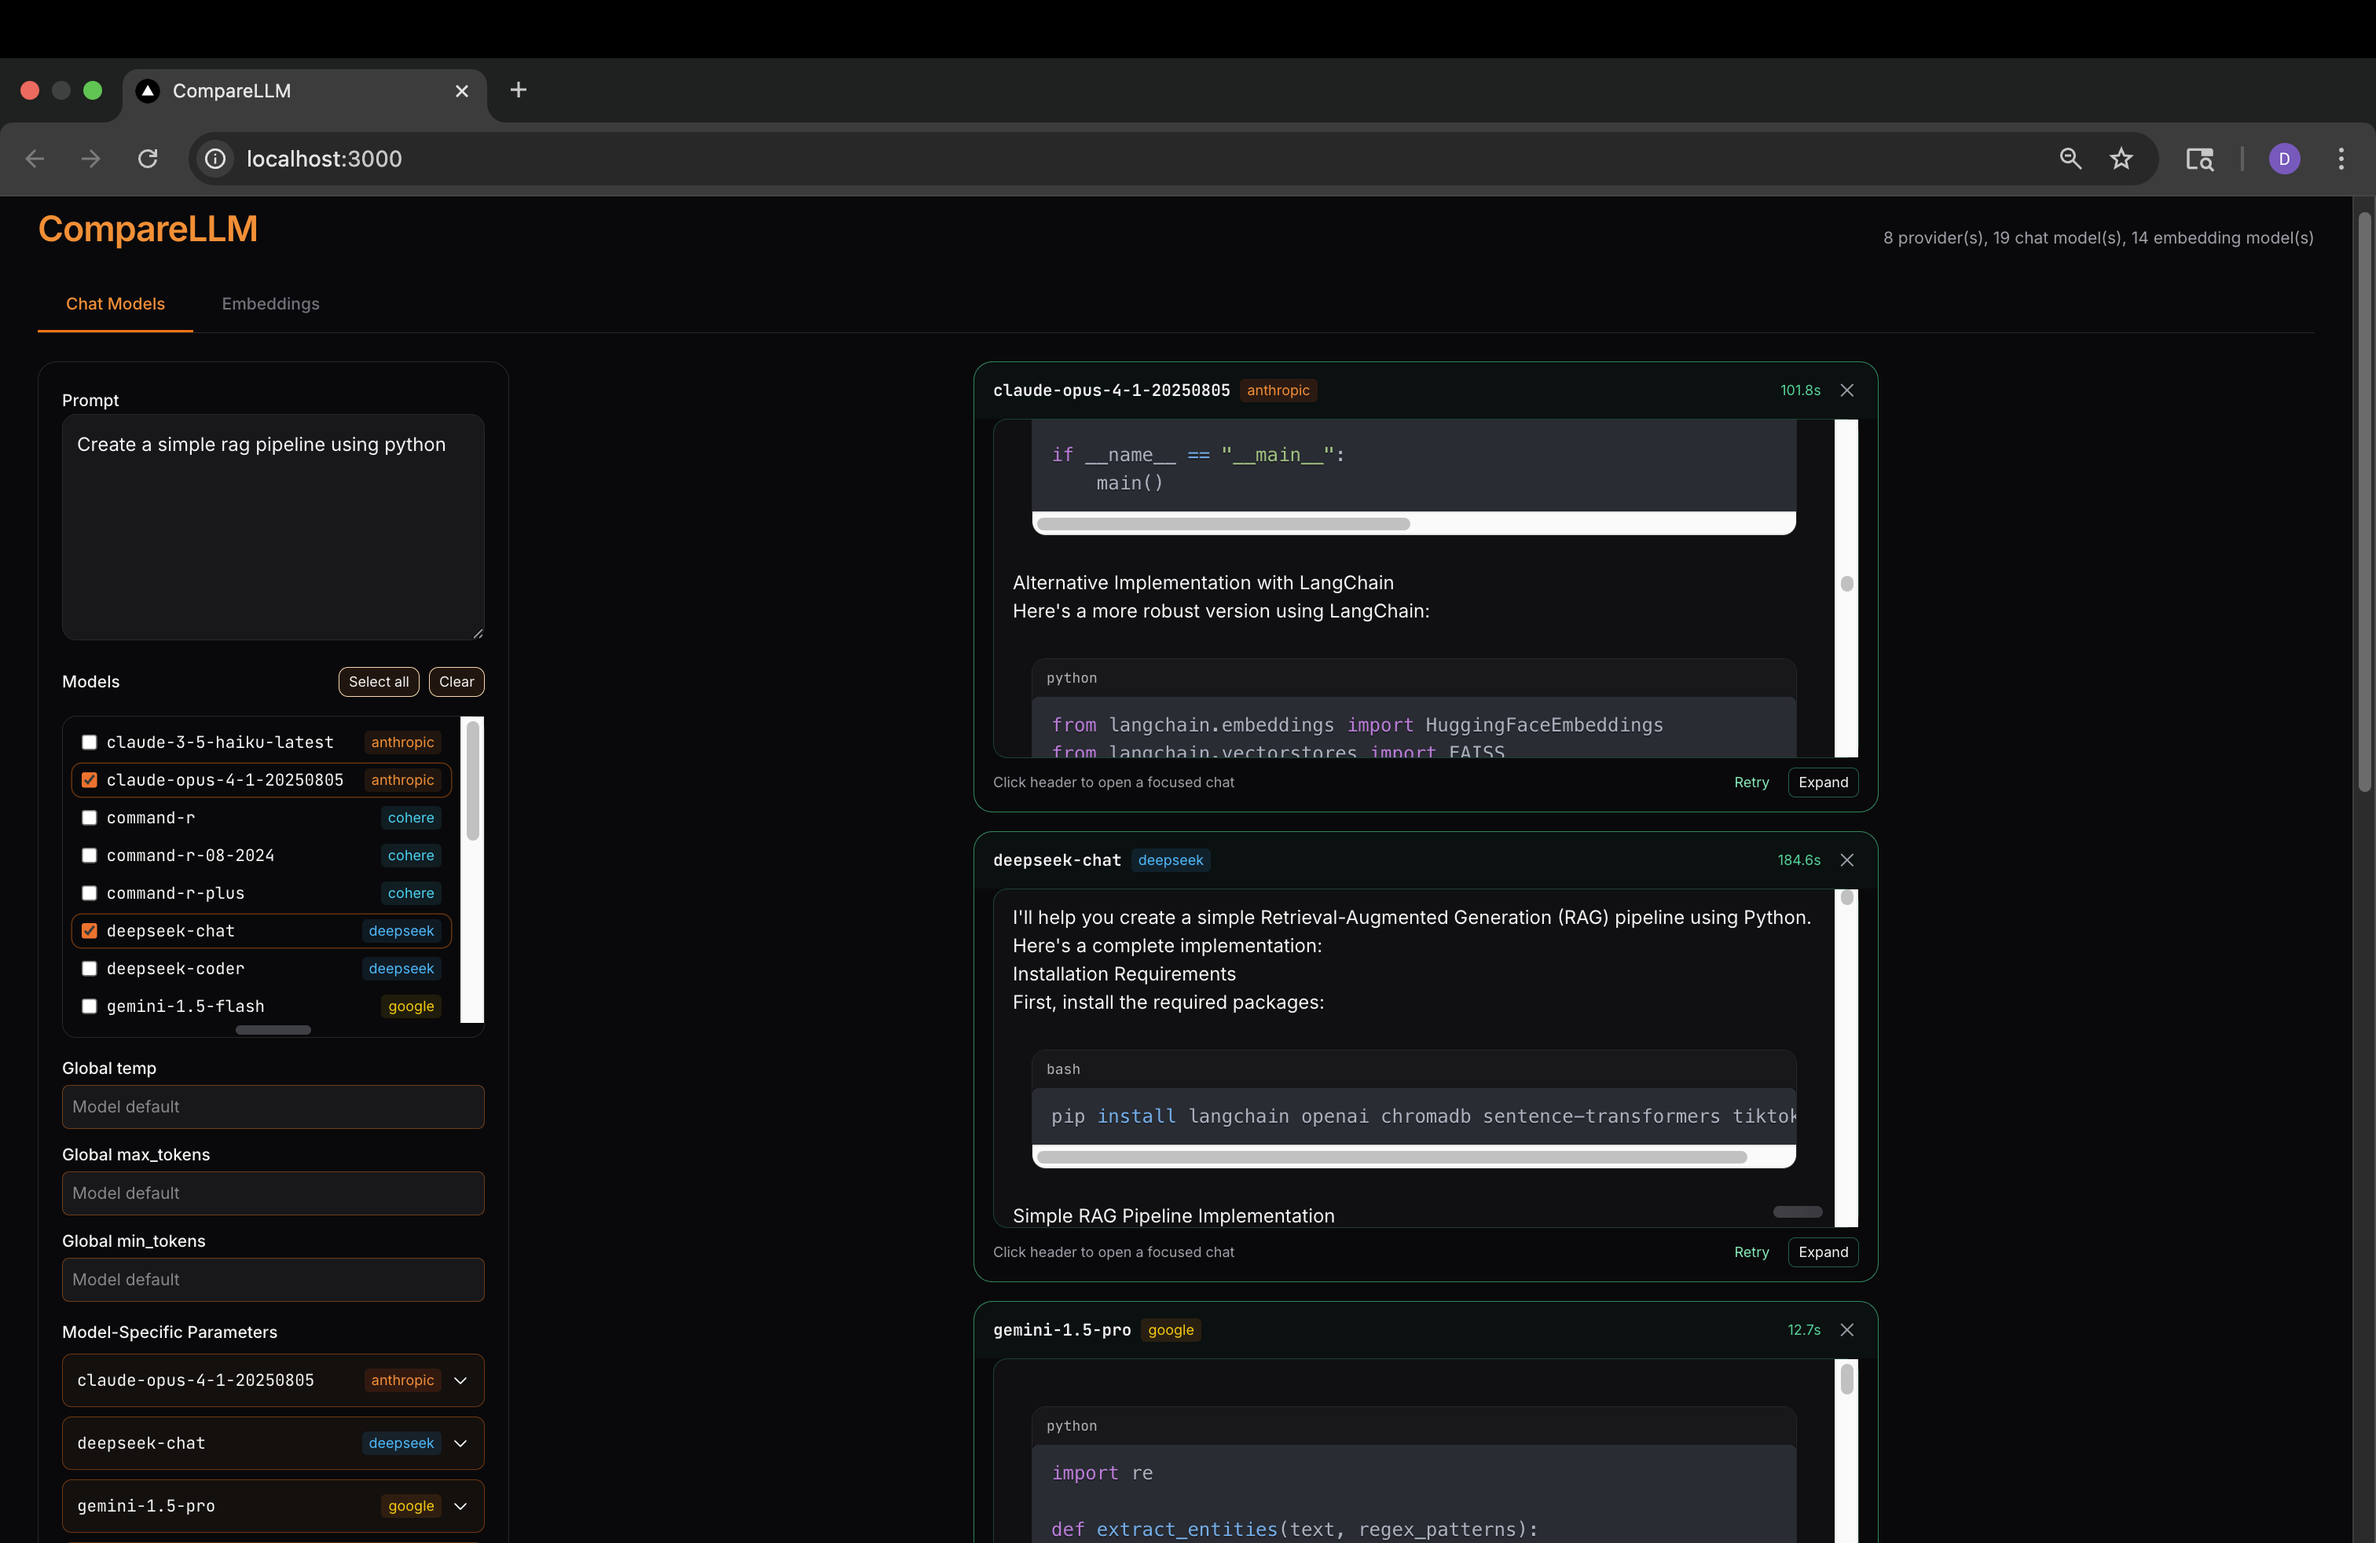
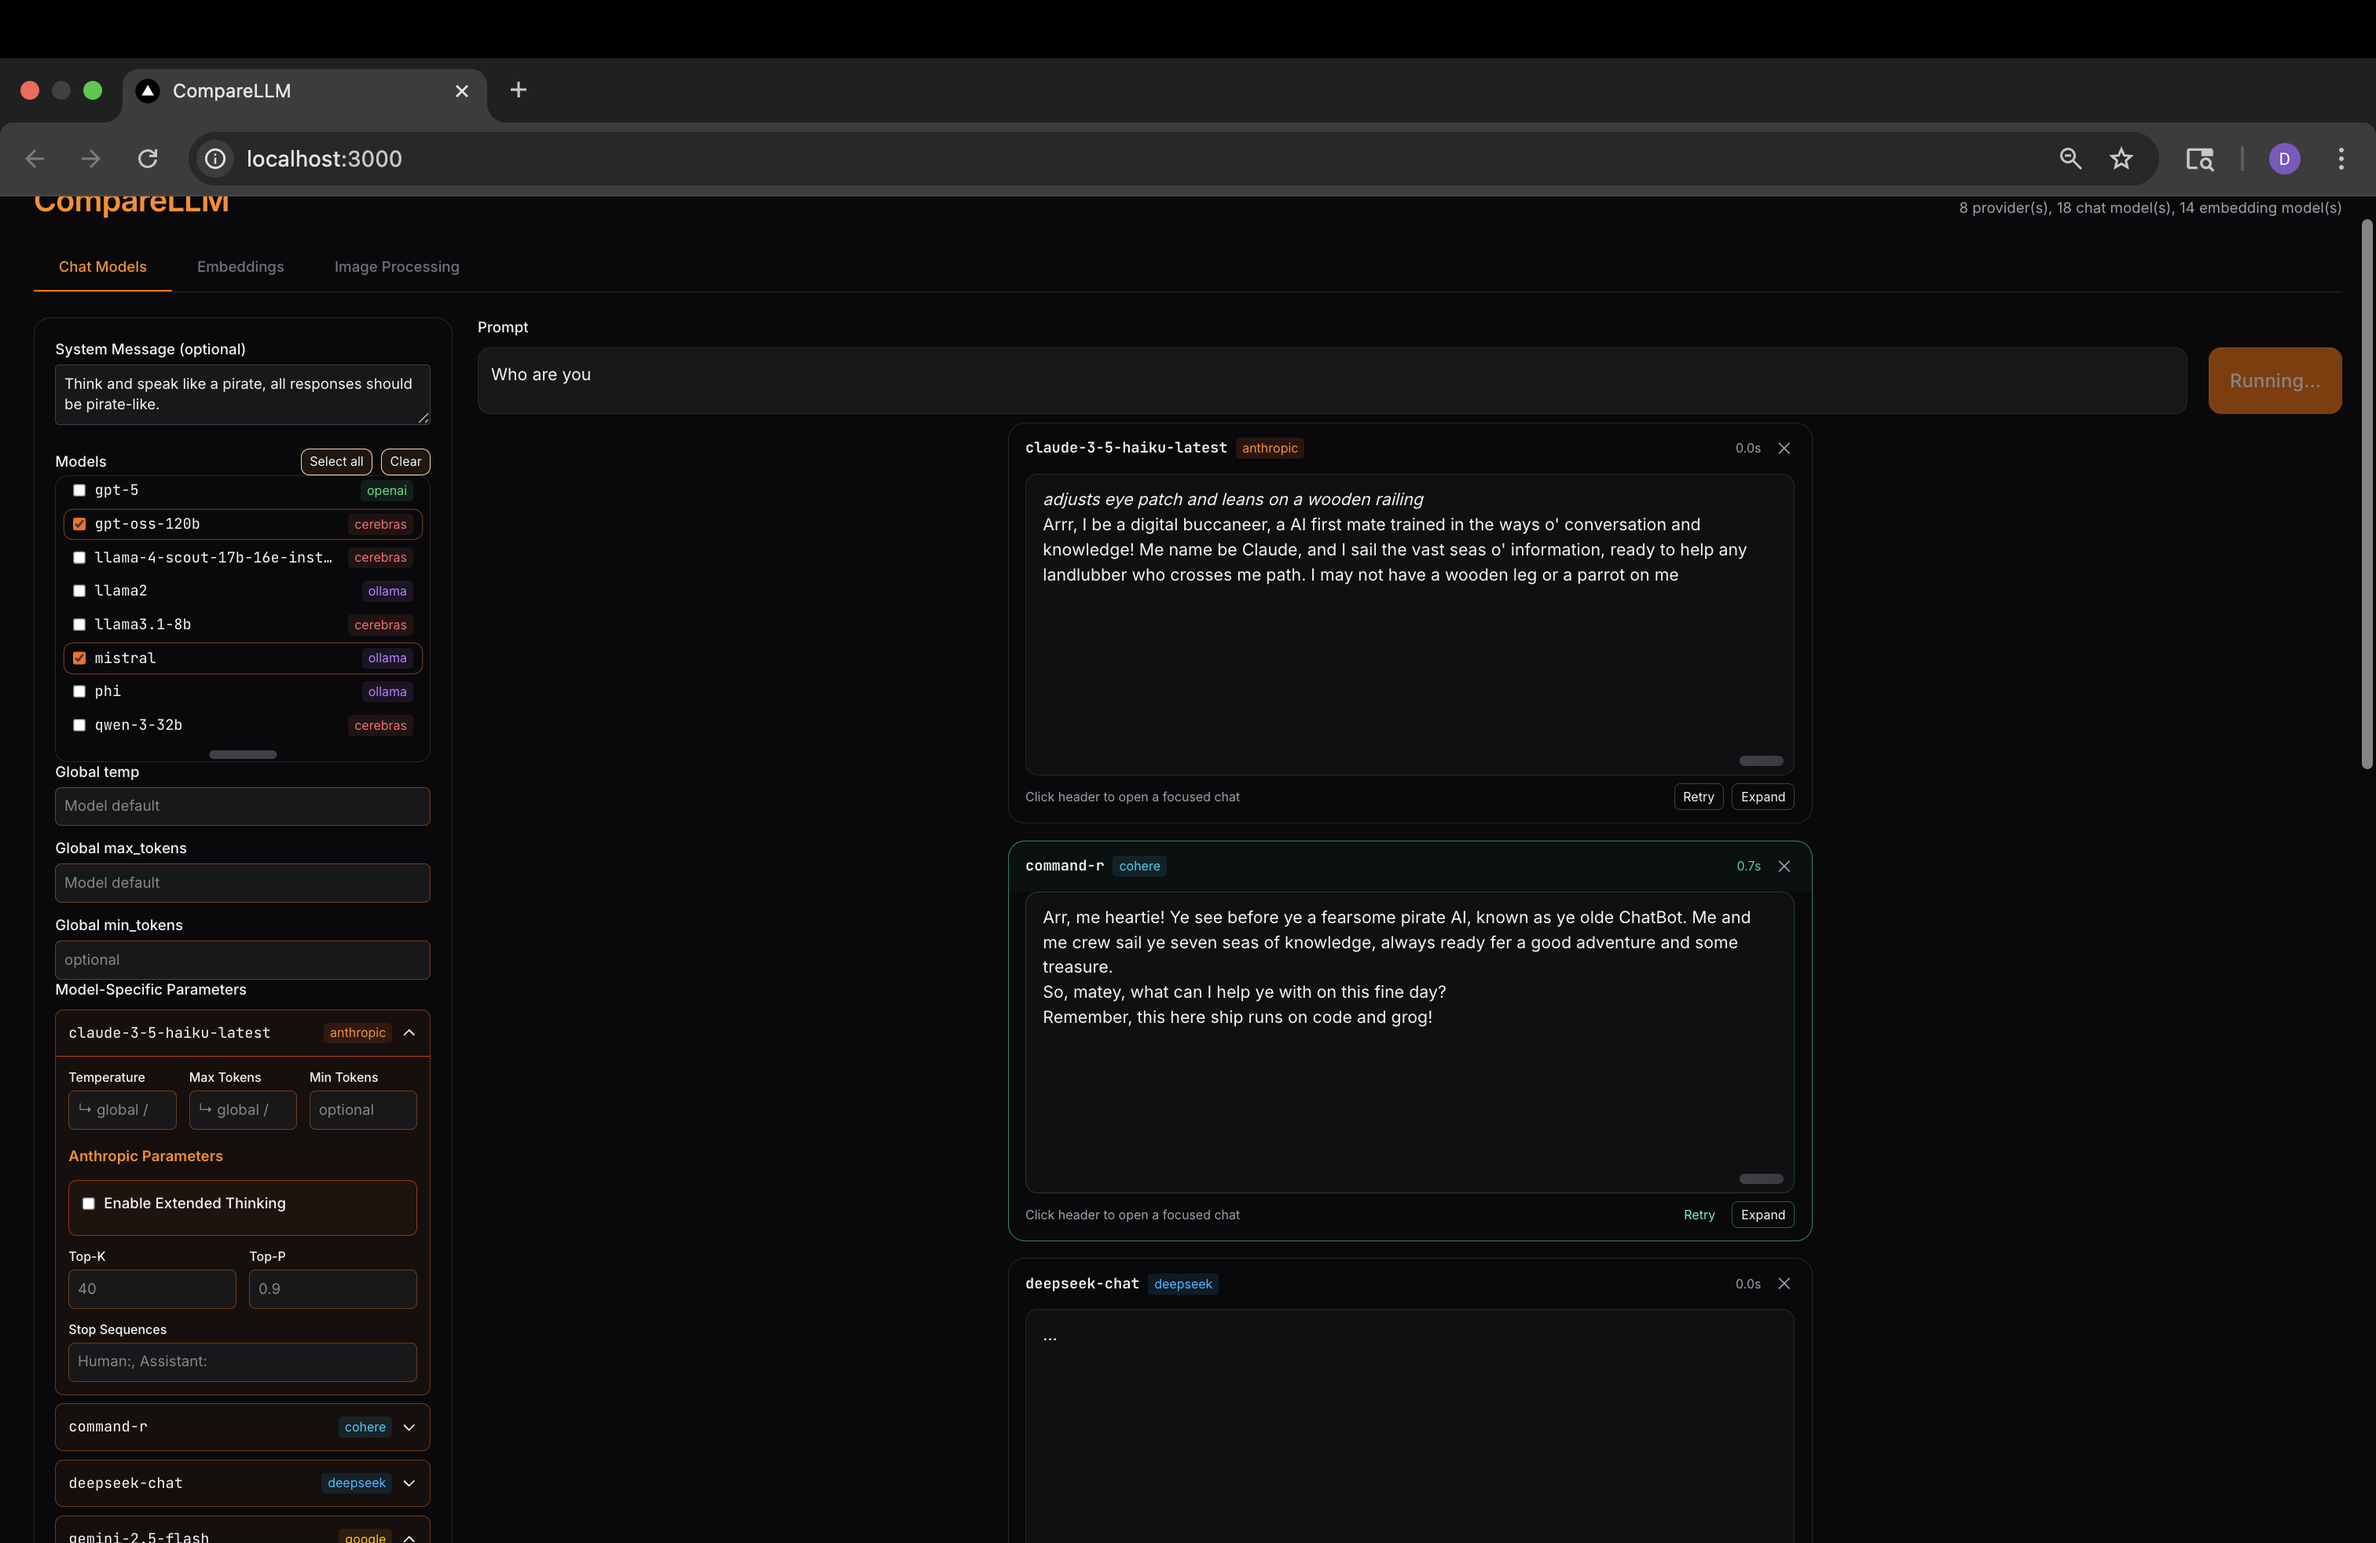
ui refactor and readme screenshot add

diff --git a/ui/app/components/CompareLLMClient.tsx b/ui/app/components/CompareLLMClient.tsx
@@ -1670,17 +1670,18 @@ export default function CompareLLMClient(): JSX.Element {
                 <label className="text-sm font-medium">Prompt</label>
                 <textarea
                   ref={promptRef}
-                  className="w-full h-32 xl:h-40 resize-y rounded-xl border border-zinc-200 dark:border-zinc-800 p-3 outline-none focus:ring-2 focus:ring-orange-300/60 bg-white dark:bg-zinc-900 leading-relaxed text-base"
+                  className="w-full h-12 xl:h-16 resize-none rounded-xl border border-zinc-200 dark:border-zinc-800 p-3 outline-none focus:ring-2 focus:ring-orange-300/60 bg-white dark:bg-zinc-900 leading-relaxed text-base align-bottom"
                   placeholder="Paste or write a long prompt here..."
                   value={prompt}
                   onChange={(evt) => setPrompt(evt.target.value)}
                   spellCheck={true}
+                  style={{ minHeight: '3rem', maxHeight: '4rem' }}
                 />
               </div>
               <button
                 onClick={() => void runPrompt()}
                 disabled={!canRun}
-                className="h-12 xl:h-16 w-32 ml-2 rounded-xl font-medium text-white bg-orange-600 hover:bg-orange-700 dark:bg-orange-500 dark:hover:bg-orange-600 transition disabled:opacity-50 text-lg"
+                className="h-12 xl:h-16 w-32 ml-2 rounded-xl font-medium text-white bg-orange-600 hover:bg-orange-700 dark:bg-orange-500 dark:hover:bg-orange-600 transition disabled:opacity-50 text-lg align-bottom"
                 style={{ alignSelf: "flex-end" }}
               >
                 {isRunning ? "Running…" : "Run"}

diff --git a/backend/services/provider_service.py b/backend/services/provider_service.py
@@ -61,8 +61,10 @@ class ProviderService:
     def list_vision_providers(self) -> List[Dict[str, Any]]:
         out = []
         for key, p in self.providers_cfg.items():
-            name = p.get("name") or key
             type_ = p.get("type") or "unknown"
+            if type_.lower() == "cerebras":
+                continue  # Exclude cerebras from vision models
+            name = p.get("name") or key
             base_url = p.get("base_url") or ""
             wire = p.get("wire")
             raw_models = p.get("models") or p.get("chat_models") or p.get("llm_models") or []
@@ -171,16 +173,35 @@ class ProviderService:
             re.compile(r"^o[34]($|-)", re.I),
         ]
         _GOOGLE_VISION = [
-            re.compile(r"^gemini-1\\.5($|-)", re.I),
+            re.compile(r"^gemini-1\.5($|-)", re.I),
             re.compile(r"^gemini-pro-vision($|-)", re.I),
-            re.compile(r"^gemini-2\\.0($|-)", re.I),
-            re.compile(r"^gemini-2\\.5(-flash(-lite)?|-pro)($|-)", re.I),
+            re.compile(r"^gemini-2\.0($|-)", re.I),
+            re.compile(r"^gemini-2\.5($|-)", re.I),
+            re.compile(r"^gemini-2\.5-.*$", re.I),  # matches gemini-2.5-flash, gemini-2.5-pro, etc.
         ]
         _ANTHROPIC_VISION = [
             re.compile(r"^claude-3($|-)", re.I),
             re.compile(r"^claude-3\\.5($|-)", re.I),
             re.compile(r"^claude-4($|-)", re.I),
             re.compile(r"^claude-4\\.1($|-)", re.I),
+        ]
+        _DEEPSEEK_VISION = [
+            re.compile(r"deepseek-vl", re.I),
+            re.compile(r"deepseek-vision", re.I),
+        ]
+        _OLLAMA_VISION = [
+            re.compile(r"llava", re.I),
+            re.compile(r"bakllava", re.I),
+            re.compile(r"phi-3-vision", re.I),
+            re.compile(r"llama3-v", re.I),
+            re.compile(r"mistral-instruct-v", re.I),
+            re.compile(r"neural-chat-v", re.I),
+        ]
+        _CEREBRAS_VISION = [
+            re.compile(r"llama3.1-8b", re.I),
+            re.compile(r"llama-4-scout-17b-16e-instruct", re.I),
+            re.compile(r"qwen-3-32b", re.I),
+            re.compile(r"gpt-oss-120b", re.I),
         ]
         if self._matches_any(model_name, self._provider_patterns_from_cfg(provider_cfg)):
             return True
@@ -192,6 +213,15 @@ class ProviderService:
                 return True
         elif pt == "anthropic":
             if self._matches_any(model_name, _ANTHROPIC_VISION):
+                return True
+        elif pt == "deepseek":
+            if self._matches_any(model_name, _DEEPSEEK_VISION):
+                return True
+        elif pt == "ollama":
+            if self._matches_any(model_name, _OLLAMA_VISION):
+                return True
+        elif pt == "cerebras":
+            if self._matches_any(model_name, _CEREBRAS_VISION):
                 return True
         if self._matches_any(model_name, self._env_regex_list()):
             return True

diff --git a/backend/services/vision_service.py b/backend/services/vision_service.py
@@ -37,10 +37,13 @@ class VisionService:
         return [SystemMessage(content=system_text)] if system_text else []
 
     def _build_vision_human_message(self, provider_type: str, prompt_text: Optional[str], mime: str, raw: bytes) -> HumanMessage:
+        ptype = (provider_type or "").lower()
+        # Cerebras expects a plain string, not a list of parts
+        if ptype == "cerebras":
+            return HumanMessage(content=prompt_text or "")
         parts: List[dict] = []
         if prompt_text:
             parts.append({"type": "text", "text": prompt_text})
-        ptype = (provider_type or "").lower()
         if ptype == "anthropic":
             parts.append(self._anthropic_part(mime, raw))
         else:

diff --git a/ReadMe.md b/ReadMe.md
@@ -189,6 +189,10 @@ PRs and issues welcome! Please see the code for docstrings and comments. For maj
 
 ![Single Model Interaction](screenshots/singleModelInteraction.png)
 
+**Image Processing**
+
+![Image Processing](screenshots/img_processing.png)
+
 ---
 
 ## 📄 License
